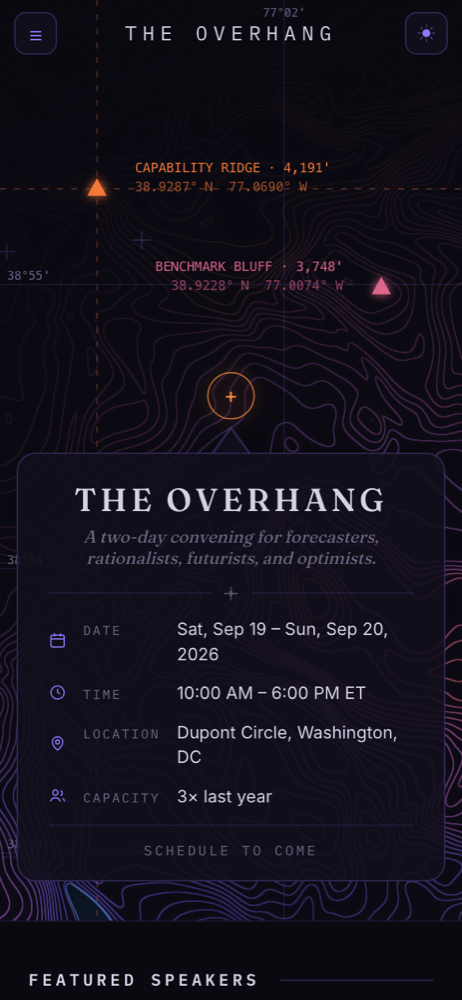
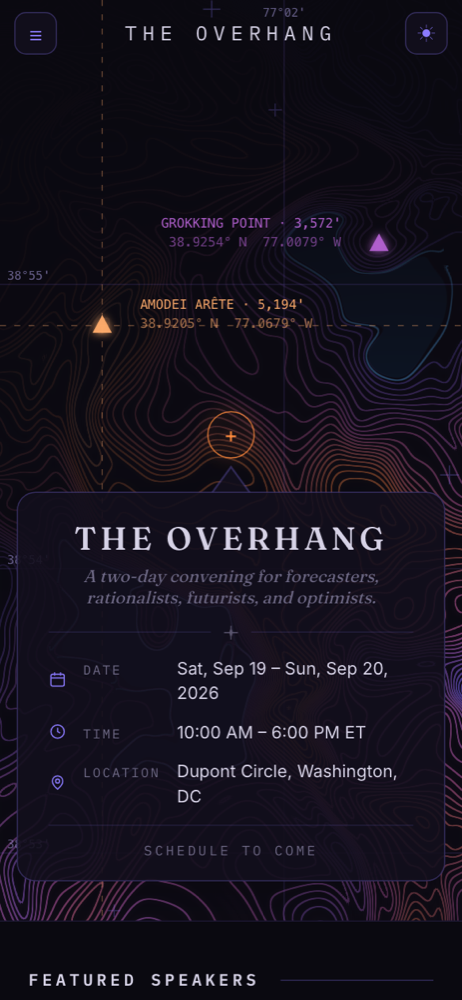
feat: info card bottom-right, drop capacity row, schedule line in hero
Desktop card now anchors to the bottom-right of the first screen
(marker + tail still up), loses the capacity row, and "schedule to
come" moves into the hero title block; the mobile card keeps the line
since its title lives in the card.

diff --git a/src/app/page.module.css b/src/app/page.module.css
@@ -31,13 +31,23 @@
   opacity: 0.85;
 }
 
-/* card on the right side of the screen, marker + tail pointing up */
+.schedule {
+  margin-top: 22px;
+  font-family: var(--font-mono);
+  font-size: 12px;
+  letter-spacing: 0.22em;
+  text-transform: uppercase;
+  color: var(--dim);
+}
+
+/* card in the bottom-right of the screen, marker + tail pointing up */
 .heroCard {
   position: absolute;
-  left: 67%;
-  transform: translateX(-50%);
-  top: clamp(120px, 20dvh, 260px);
   z-index: 2; /* paint above the solid section so the marker never clips */
+}
+.cardDesktop {
+  right: 5vw;
+  bottom: 4dvh;
 }
 
 .cardMobile { display: none; }
@@ -52,7 +62,7 @@
   .cardMobile {
     display: block;
     left: 50%;
-    top: auto;
+    transform: translateX(-50%);
     bottom: 4dvh;
   }
 }

diff --git a/src/components/InfoCard.tsx b/src/components/InfoCard.tsx
@@ -50,7 +50,6 @@ export function InfoCard({
       label: "Location",
       value: event ? `${event.locationLine1}, ${event.locationLine2}` : "Near Dupont Circle, Washington, DC",
     },
-    { icon: icon.people, label: "Capacity", value: "3× last year" },
   ];
 
   return (
@@ -80,7 +79,8 @@ export function InfoCard({
             <RowCells key={r.label} {...r} />
           ))}
         </div>
-        <div className={styles.schedule}>Schedule to come</div>
+        {/* desktop shows this line in the hero title block instead */}
+        {showTitle && <div className={styles.schedule}>Schedule to come</div>}
       </div>
     </div>
   );

diff --git a/src/app/page.tsx b/src/app/page.tsx
@@ -27,6 +27,7 @@ export default async function Home() {
             <p className={styles.subtitle}>
               A two-day convening for forecasters, rationalists, futurists, and optimists.
             </p>
+            <p className={styles.schedule}>Schedule to come</p>
           </div>
 
           {/* marker + tail point up in both layouts; desktop card sits on
